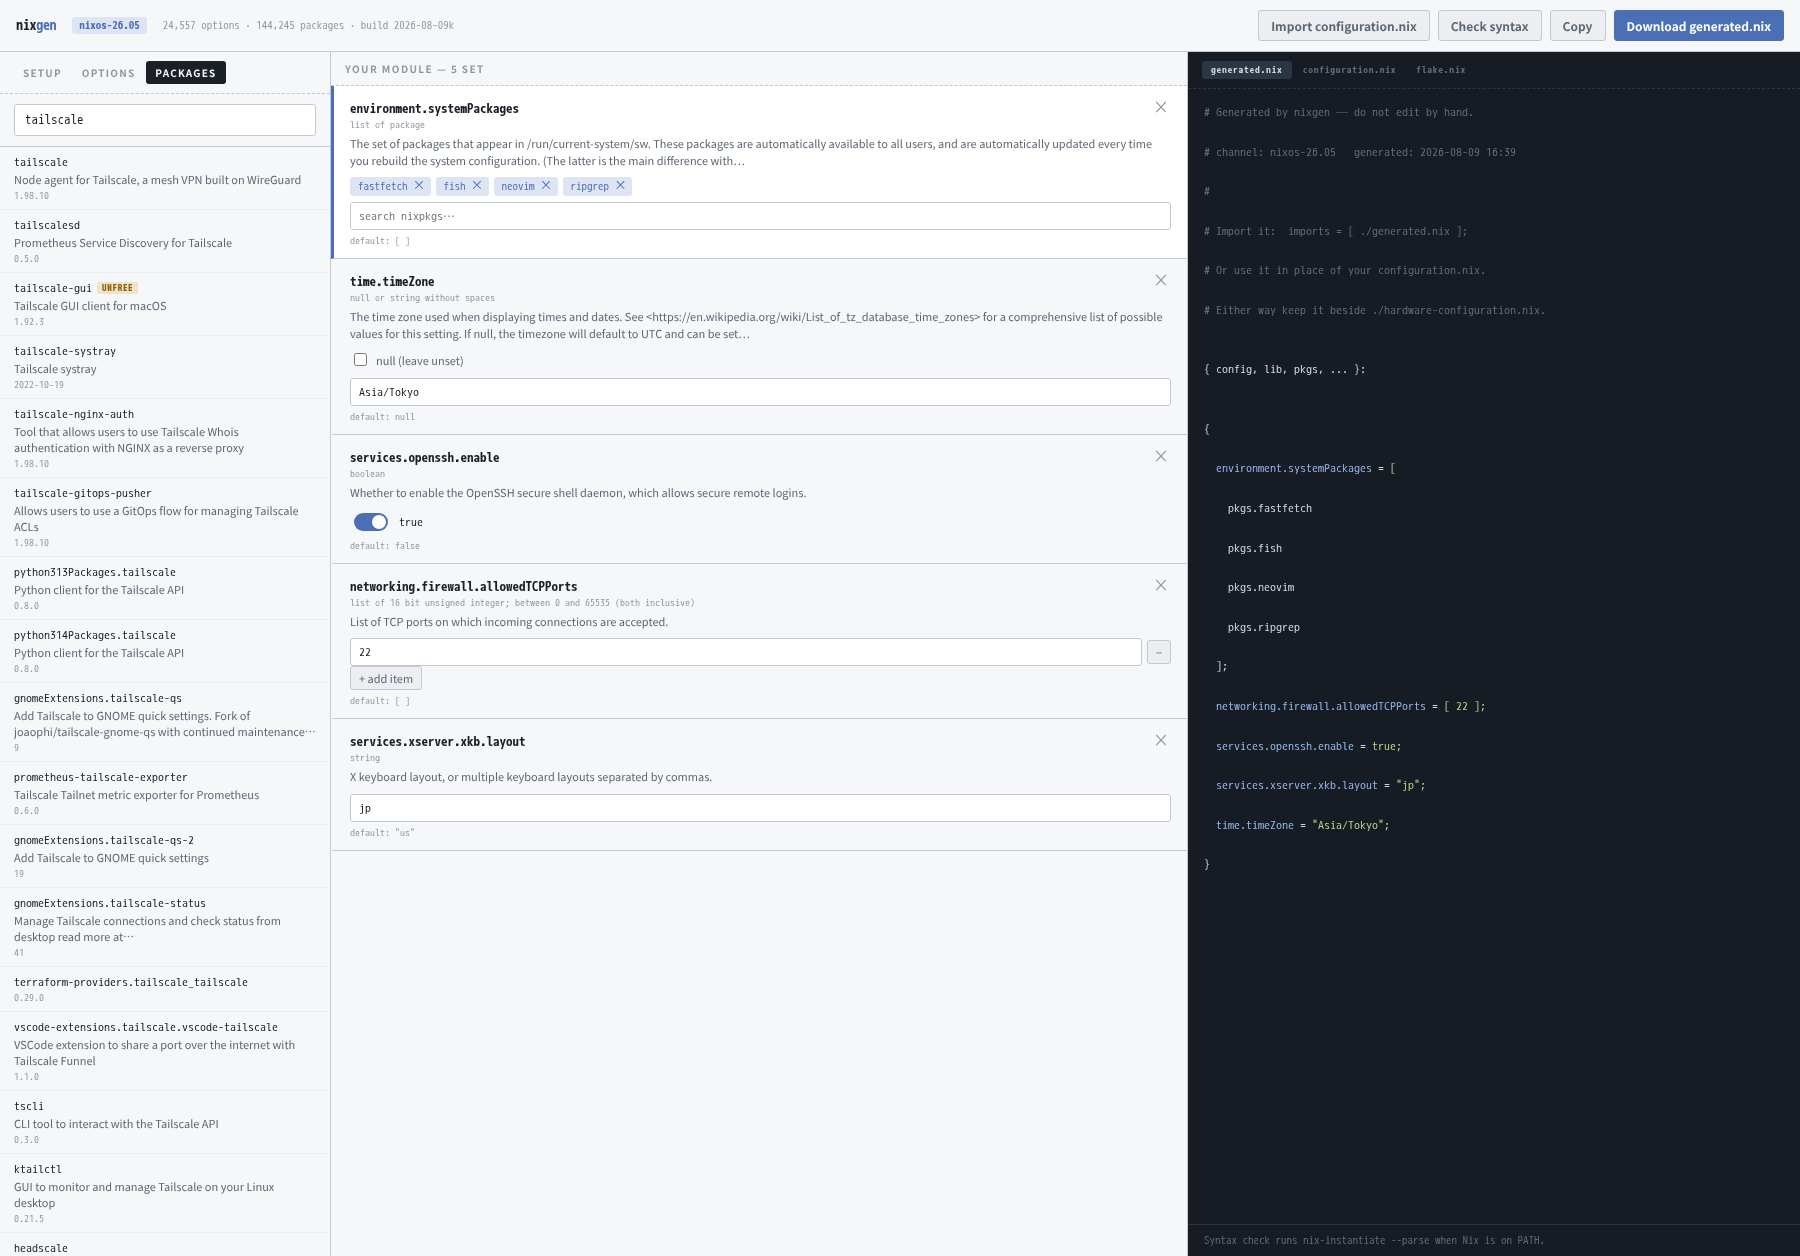
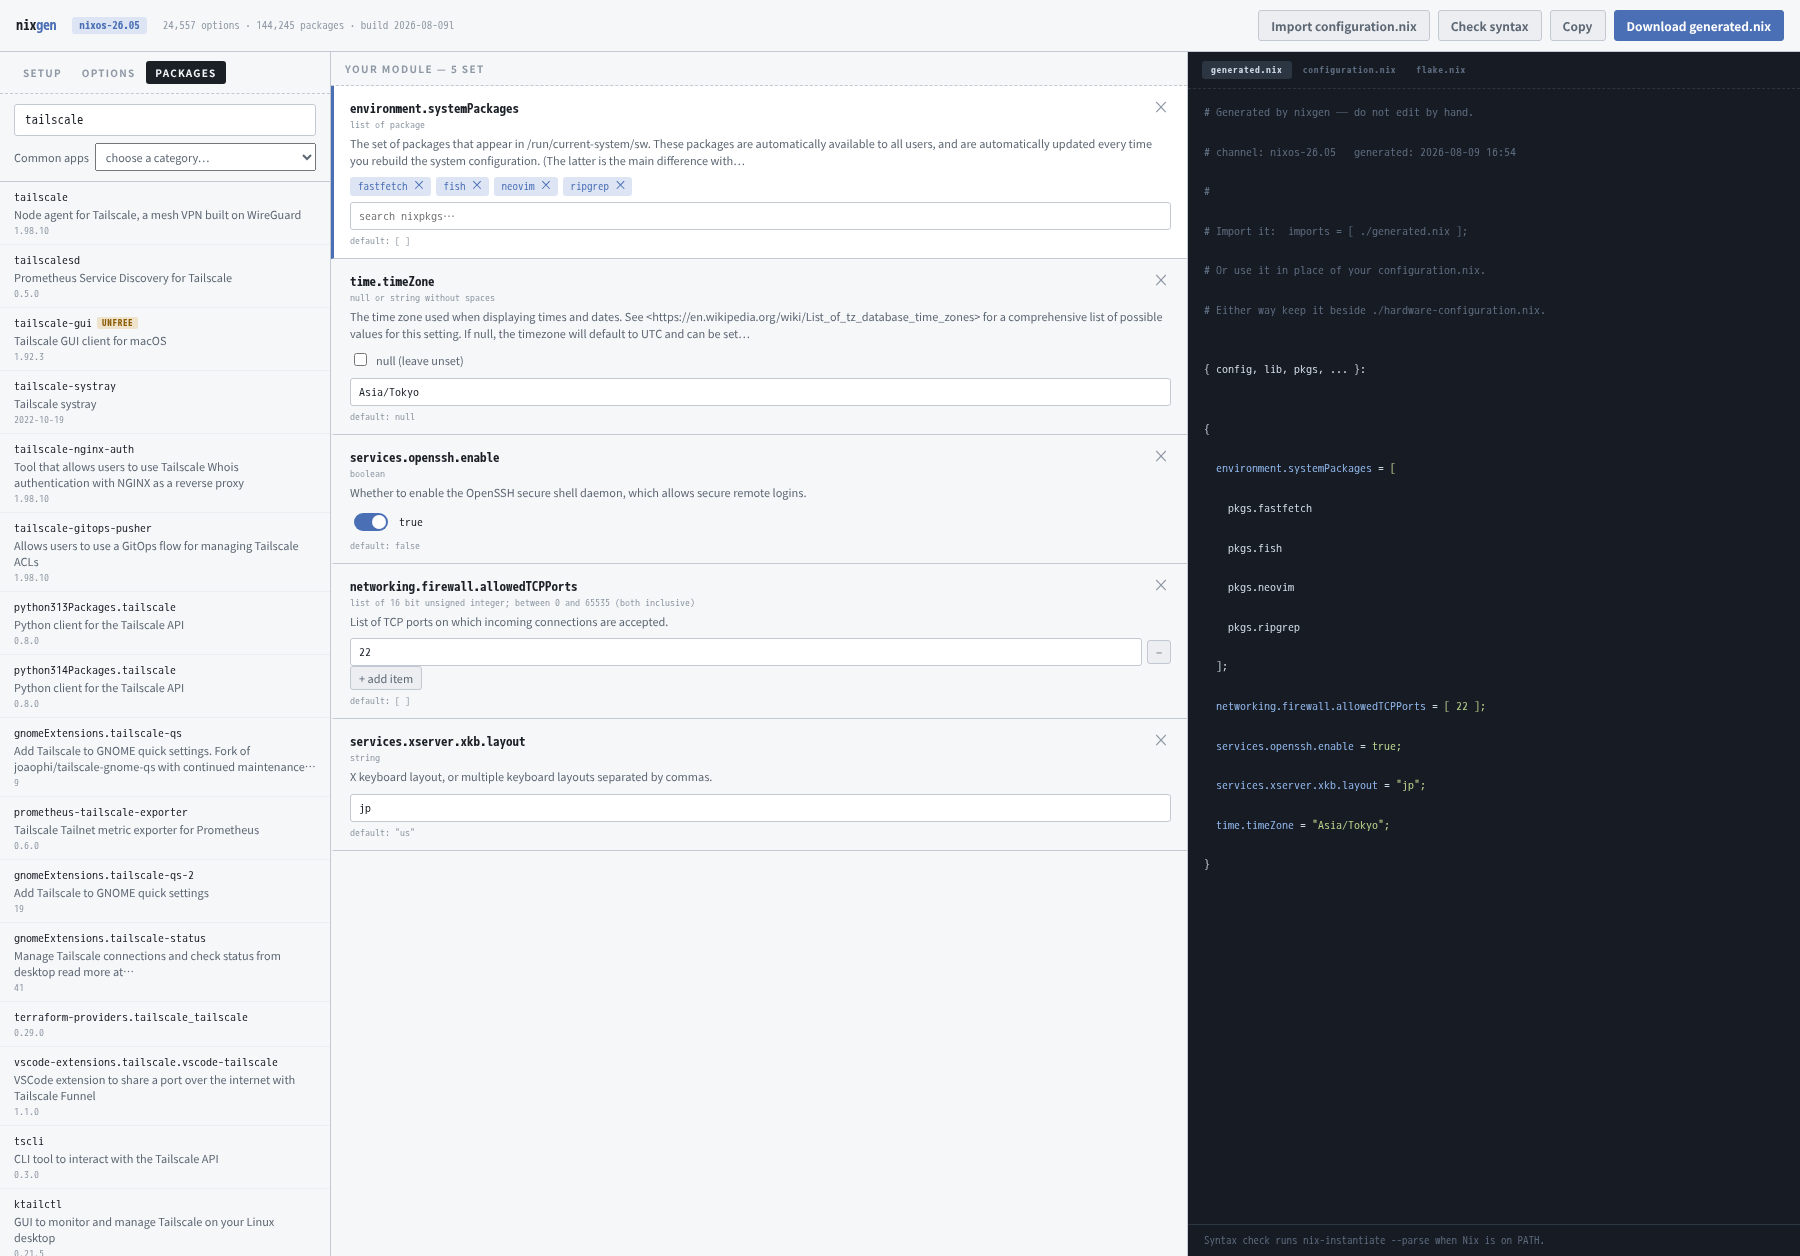
Offer a short pick of common apps, by area
Browsers, mail, office, audio and video, graphics, games, system tools,
development. For when you know the kind of thing you want but not what it is
called in nixpkgs, which is the same gap the desktop dropdown fills.

Picking a category fills the results list rather than adding anything, so the
next click is the one you already know, with the description, version and
unfree badge the catalogue gives every other hit. Nothing is installed on
anyone's behalf.

It is a short pick and says so on screen. This is the only place in the tool
where somebody's taste decides what you are shown, so it stays small and the
search box remains the way to reach the other 144,000.

Every name is looked up rather than written into the file, which is not a
formality: `kdenlive` is `kdePackages.kdenlive`, `0ad` is `zeroad`, and
`superTuxKart` became `supertuxkart` between 25.11 and 26.05 — both spellings
are listed and only the one that exists comes back. Checked against all three
catalogues here; every category is non-empty on each.

Steam is left out. It wants `programs.steam.enable`, not a line in
environment.systemPackages, and Options has it.

Verified past Check syntax again, since that cannot tell whether an attribute
resolves: one app from every category, including the dotted one, driven
through the UI and then evaluated as a NixOS system.

Changed region(s): [[0.0, 0.1242, 0.1556, 1.0]]

diff --git a/build/static/app.js b/build/static/app.js
@@ -2,7 +2,7 @@
 
 /* Shown in the header. Bump it whenever this file changes, so "the fix did not
    work" can be told apart from "the old file is still being served". */
-const BUILD = '2026-08-09k';
+const BUILD = '2026-08-09l';
 
 const $  = (s, r = document) => r.querySelector(s);
 const $$ = (s, r = document) => [...r.querySelectorAll(s)];
@@ -137,6 +137,9 @@ function setStateVersion(release, channel) {
 
 let searchTimer;
 $('#q').addEventListener('input', () => {
+  // Typing takes over from a category, so the dropdown stops claiming it.
+  $('#s-apps').value = '';
+  $('#appshint').hidden = true;
   clearTimeout(searchTimer);
   searchTimer = setTimeout(runSearch, 140);
 });
@@ -157,6 +160,11 @@ function selectKind(kind) {
 
   $('#filterline').style.display = kind === 'options' ? '' : 'none';
   $('#presetline').style.display = kind === 'options' ? '' : 'none';
+  $('#appsline').style.display = kind === 'packages' ? '' : 'none';
+  // Leaving the tab drops the category, so the dropdown never claims to be
+  // describing a list that has since been replaced by a search.
+  $('#s-apps').value = '';
+  $('#appshint').hidden = true;
   $('#q').placeholder = kind === 'options'
     ? 'openssh, firewall, timeZone…'
     : 'firefox, ripgrep, obsidian…';
@@ -658,6 +666,46 @@ $('#btn-desktop').addEventListener('click', () => {
   const key = $('#s-desktop').value;
   if (key) addDesktop(key);
 });
+
+/* A few representative packages per area, for when you know the kind of thing
+   you want but not what it is called here. Every name was checked against the
+   catalogue; ones nixpkgs has renamed are simply absent from the result rather
+   than offered and broken — `kdenlive` is `kdePackages.kdenlive`, `0ad` is
+   `zeroad`, `superTuxKart` is `supertuxkart`, and none of those are guessable.
+   This is a short pick and says so on screen: it is the one place in the tool
+   where somebody's taste decides what you see, so it stays small, and the
+   search box remains the way to find anything else.
+
+   Steam is deliberately absent. It wants `programs.steam.enable`, not a line
+   in environment.systemPackages, and the Options tab has it. */
+const APPS = {
+  browser: ['firefox', 'chromium', 'librewolf', 'brave', 'ungoogled-chromium'],
+  mail:    ['thunderbird', 'evolution', 'geary', 'claws-mail'],
+  office:  ['libreoffice', 'onlyoffice-desktopeditors', 'gnumeric', 'abiword',
+            'xournalpp'],
+  media:   ['vlc', 'mpv', 'obs-studio', 'audacity', 'kdePackages.kdenlive',
+            'handbrake', 'strawberry'],
+  graphics:['gimp', 'inkscape', 'krita', 'darktable', 'blender', 'rawtherapee'],
+  // Both spellings of one game on purpose: 25.11 has `superTuxKart` and 26.05
+  // has `supertuxkart`. Only whichever exists comes back, so listing the two
+  // costs nothing and the list keeps working across a rename.
+  games:   ['lutris', 'prismlauncher', 'supertuxkart', 'superTuxKart', 'zeroad',
+            'retroarch', 'mangohud'],
+  system:  ['htop', 'btop', 'gparted', 'keepassxc', 'baobab', 'timeshift',
+            'fastfetch'],
+  dev:     ['git', 'neovim', 'helix', 'vscodium', 'gh', 'direnv', 'tmux'],
+};
+
+async function showApps(key) {
+  const attrs = APPS[key];
+  $('#appshint').hidden = !attrs;
+  if (!attrs) { runSearch(); return; }
+  const url = '/api/packages?attrs=' + encodeURIComponent(attrs.join(','));
+  const { results } = await fetch(url).then(r => r.json());
+  paintPackages(results);
+}
+
+$('#s-apps').addEventListener('change', () => showApps($('#s-apps').value));
 
 /* Find a selection entry by the path it will actually render to. Import can
    file the same option under a suffixed key, so looking it up by map key is

diff --git a/build/static/index.html b/build/static/index.html
@@ -54,6 +54,24 @@
           </select>
           <button class="mini" id="btn-desktop">Add</button>
         </div>
+        <!-- Picking a category fills the results list, so what happens next is
+             the same click as any search hit. Nothing is added on your behalf. -->
+        <div class="presetline" id="appsline">
+          <span>Common apps</span>
+          <select id="s-apps">
+            <option value="">choose a category…</option>
+            <option value="browser">Web browsers</option>
+            <option value="mail">Mail</option>
+            <option value="office">Office</option>
+            <option value="media">Audio and video</option>
+            <option value="graphics">Graphics</option>
+            <option value="games">Games</option>
+            <option value="system">System tools</option>
+            <option value="dev">Development</option>
+          </select>
+        </div>
+        <p class="presethint" id="appshint" hidden>A short pick, not a catalogue.
+           Search for anything else.</p>
       </div>
       <div class="pane-body" id="results"></div>
       <div class="pane-body" id="setup" hidden>

diff --git a/build/static/app.css b/build/static/app.css
@@ -114,6 +114,7 @@ main {
 }
 .presetline select { flex: 1; min-width: 0; padding: 4px 6px; }
 .presetline .mini { padding: 4px 9px; }
+.presethint { margin: 5px 0 0; font-size: 10.5px; color: var(--ink-faint); }
 
 .row {
   display: block; width: 100%; text-align: left;

diff --git a/build/server.py b/build/server.py
@@ -179,6 +179,25 @@ def search_packages(q, limit=60):
     return [dict(r) for r in rows]
 
 
+def packages_by_attr(attrs):
+    """Rows for an explicit list of attributes, in the order asked for.
+
+    A lookup rather than a search: the curated lists in the UI name packages
+    outright. Anything nixpkgs has since renamed simply does not come back,
+    which is the behaviour to want — a shorter list beats a name that resolves
+    to nothing at `nixos-rebuild`.
+    """
+    if not attrs:
+        return []
+    con = db()
+    rows = con.execute(
+        "SELECT attr, version, description, unfree, broken FROM packages "
+        "WHERE attr IN (%s)" % ",".join("?" * len(attrs)), attrs).fetchall()
+    con.close()
+    found = {r["attr"]: dict(r) for r in rows}
+    return [found[a] for a in attrs if a in found]
+
+
 def get_option(path):
     con = db()
     row = con.execute("SELECT * FROM options WHERE path = ?", (path,)).fetchone()
@@ -626,6 +645,11 @@ class Handler(BaseHTTPRequestHandler):
                 groups=one("groups"),
                 flakes=one("flakes"),
                 state_version=one("state_version")))
+        if u.path == "/api/packages":
+            # Bounded because it names every row it wants: the curated lists
+            # are a handful each, and nothing else should be asking.
+            attrs = [a for a in one("attrs", "").split(",") if a][:40]
+            return self._json({"results": packages_by_attr(attrs)})
         if u.path == "/api/option":
             opt = get_option(one("path", ""))
             return self._json(opt or {"error": "not found"}, 200 if opt else 404)

diff --git a/CHANGELOG.md b/CHANGELOG.md
@@ -9,6 +9,21 @@ option counts.
 
 ## English
 
+### build 2026-08-09l
+
+- **A "common apps" dropdown on the Packages tab**, for when you know the kind
+  of thing you want but not what it is called here: browsers, mail, office,
+  audio and video, graphics, games, system tools, development. Picking a
+  category fills the results list, so adding one is the same click as any
+  search hit — **nothing is installed on your behalf.**
+- It is a short pick and says so. This is the one place where somebody's taste
+  decides what you are shown, so it stays small and the search box remains the
+  way to find everything else.
+- Every name was checked against the catalogue, which is not a formality:
+  `kdenlive` is `kdePackages.kdenlive`, `0ad` is `zeroad`, and `superTuxKart`
+  became `supertuxkart` between 25.11 and 26.05. A name the channel does not
+  have simply does not appear.
+
 ### build 2026-08-09k
 
 - **Pick a desktop from a dropdown.** GNOME, KDE Plasma or Xfce, on the
@@ -230,6 +245,12 @@ three of these six showed up in only one of the two.
 ---
 
 ## 日本語
+
+### build 2026-08-09l
+
+- **Packagesタブに「よく使うアプリ」のプルダウンを追加しました。** ブラウザ、メール、オフィス、音楽と動画、グラフィックス、ゲーム、システム、開発の8分野です。「欲しいものの種類は分かるが、ここでの名前が分からない」ときのためのものです。**カテゴリを選ぶと検索結果欄にそのアプリが並びます。** 追加するのは検索結果をクリックするのと同じ操作で、**勝手にインストールされるものはありません。**
+- **絞った一覧であることを画面にも書いています。** ここは道具の中で唯一、**誰かの好みで見えるものが決まる場所**です。だから小さく保ち、それ以外を探す手段は検索欄のままにしてあります。
+- 名前はすべてカタログと照合しました。これは形式的な作業ではありません。`kdenlive` の実体は `kdePackages.kdenlive`、`0ad` は `zeroad`、`superTuxKart` は 25.11 と 26.05 の間に `supertuxkart` へ改名されています。**そのチャンネルに無い名前は、一覧に出ません。**
 
 ### build 2026-08-09k
 

diff --git a/README.ja.md b/README.ja.md
@@ -211,6 +211,16 @@ rm -rf ~/.local/share/nixgen
 
 タブは左から **Setup**、**Options**(設定項目)、**Packages**(ソフトウェア)の順です。新しいマシンで使う順番に並べてあります。**起動時に開くのはSetupです。** 設定を探すときは **Options** に切り替えてください。Packagesで選んだものは `environment.systemPackages` に足されます。
 
+### よく使うアプリから選ぶ
+
+**Packages** タブに **Common apps** のプルダウンがあります。ブラウザ、メール、オフィス、音楽と動画、グラフィックス、ゲーム、システム、開発の8分野です。カテゴリを選ぶと結果一覧にアプリが並ぶので、**検索結果と同じようにクリックして追加します。** 勝手に入るものはありません。
+
+**絞った一覧であって、カタログではありません。** この道具の中で唯一、他人の好みで見えるものが決まる場所なので、小さく保っています。それ以外は検索欄で探してください。
+
+名前は**いま選んでいるチャンネルのカタログで1つずつ照合**します。形式的な作業ではありません。`kdenlive` の実体は `kdePackages.kdenlive`、`0ad` は `zeroad`、`superTuxKart` は 25.11 と 26.05 の間に `supertuxkart` へ改名されています。**そのチャンネルに無いものは一覧に出ません。**
+
+Steam は意図的に外してあります。`environment.systemPackages` に書く形ではなく、**Options** タブの `programs.steam.enable` を使うのが正しいためです。
+
 ### デスクトップ環境を選ぶ
 
 **Options** タブに **Desktop** のプルダウンがあります。GNOME、KDE Plasma、Xfce から選ぶと、NixOSマニュアルが挙げている3項目が追加されます。追加されるのは**通常のオプションと同じ**なので、あとから変更も削除もできます。

diff --git a/README.md b/README.md
@@ -249,6 +249,24 @@ first.
 The tabs run **Setup**, **Options** (settings), **Packages** (software) — in the order you would use them on a new machine. Setup is where the app opens; click **Options** to start searching.
 Anything you pick under Packages is added to the list of programs to install.
 
+### Common apps
+
+Under **Packages** there is a **Common apps** dropdown: browsers, mail, office,
+audio and video, graphics, games, system tools, development. Picking a category
+fills the result list with a handful of packages, which you then add by
+clicking, exactly like a search hit. Nothing is installed for you.
+
+It is a short pick, not a catalogue — the one place in the tool where somebody
+else's taste decides what you see, so it stays small. Search for anything else.
+
+Every name is looked up in the catalogue for your channel, which is not a
+formality: `kdenlive` is really `kdePackages.kdenlive`, `0ad` is `zeroad`, and
+`superTuxKart` became `supertuxkart` between 25.11 and 26.05. Anything your
+channel does not have simply is not listed.
+
+Steam is deliberately absent: it wants `programs.steam.enable` under
+**Options**, not a line in `environment.systemPackages`.
+
 ### Picking a desktop
 
 Under **Options** there is a **Desktop** dropdown: GNOME, KDE Plasma or Xfce.

diff --git a/CLAUDE.md b/CLAUDE.md
@@ -193,6 +193,16 @@ at `nixos-rebuild`, which is the least helpful place for it to surface.
 - **The directory listing in the steps is ASCII, not box drawing.** `--mono`
   falls back to a proportional face for `├─└` on some machines, and a tree
   whose columns do not line up is worse than no tree.
+- **`APPS` is the one opinionated list in the tool, and stays small.** Picking a
+  category fills the results with a handful of packages, which are then added
+  by the same click as any search hit — nothing is installed on anyone's
+  behalf, and the search box remains the way to reach the other 144,000.
+  Every name is looked up rather than rendered, so one the channel does not
+  have is absent instead of broken: `kdenlive` is `kdePackages.kdenlive`, `0ad`
+  is `zeroad`, and `superTuxKart` became `supertuxkart` between 25.11 and
+  26.05 — both spellings are listed and only the real one comes back. Steam is
+  left out: it wants `programs.steam.enable`, not a line in
+  `environment.systemPackages`.
 - **The desktop presets name candidates, not paths.** `DESKTOPS` lists a few
   possible names per role and takes the first the catalogue has, because these
   have already moved once and asymmetrically: `gdm` and `sddm` left
